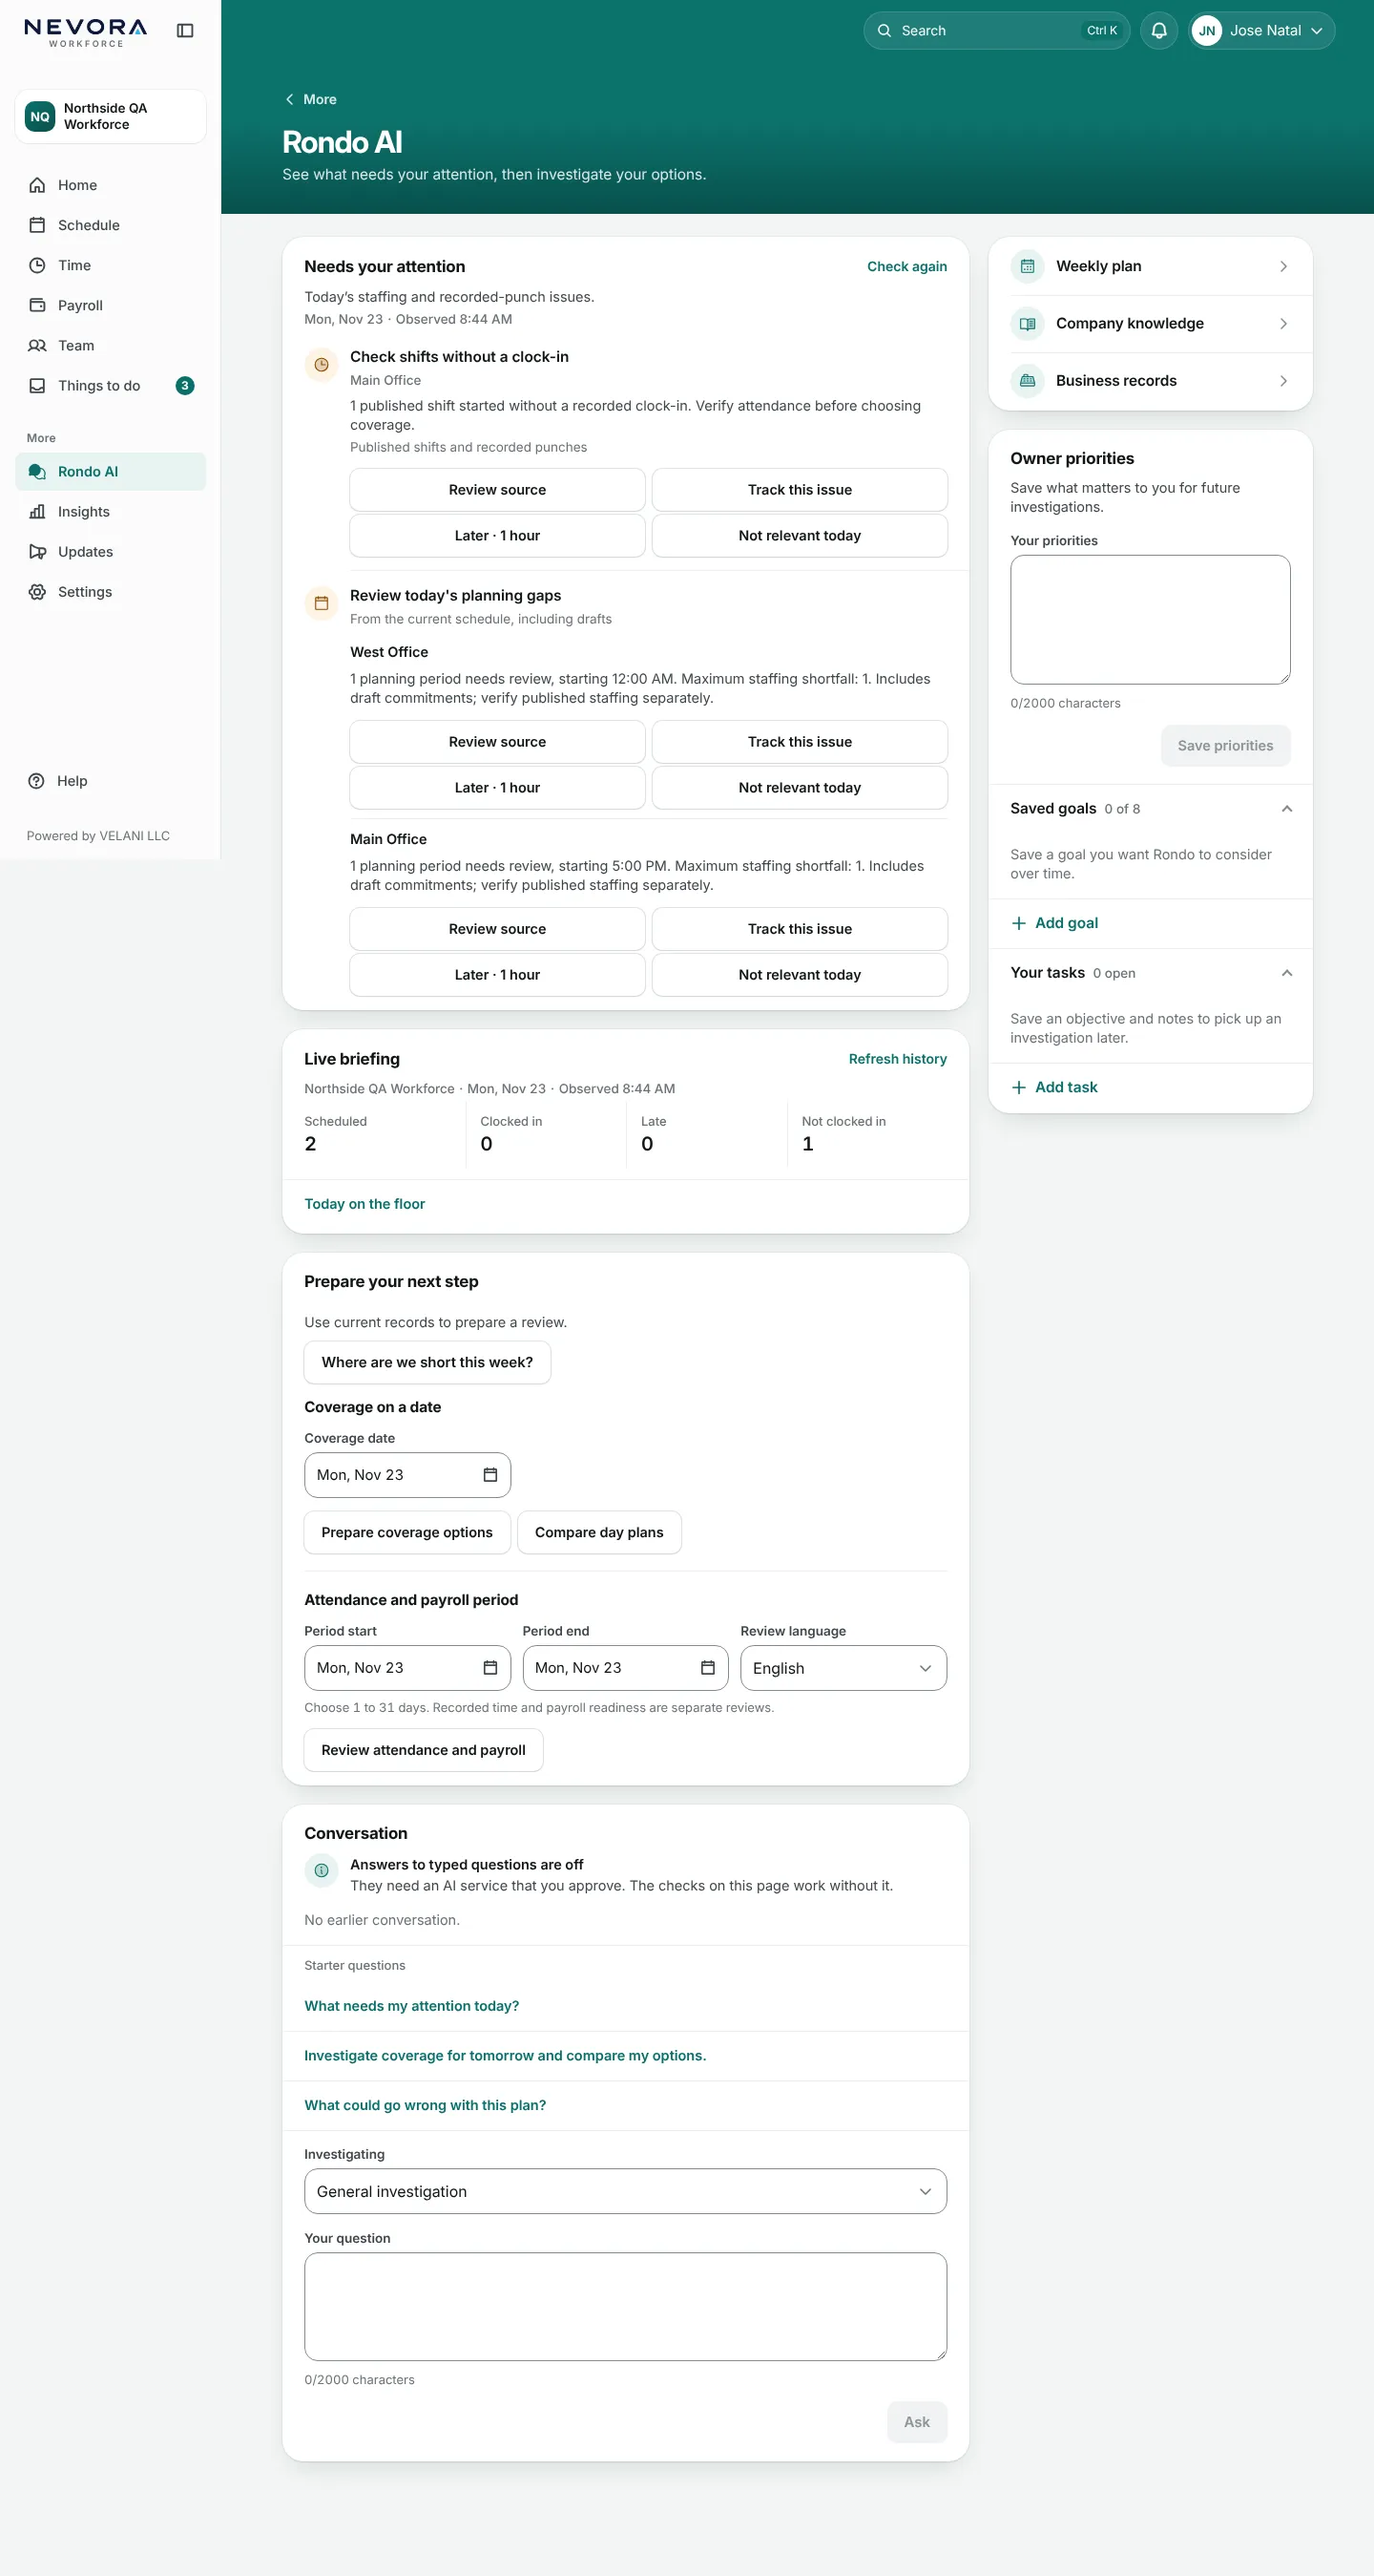
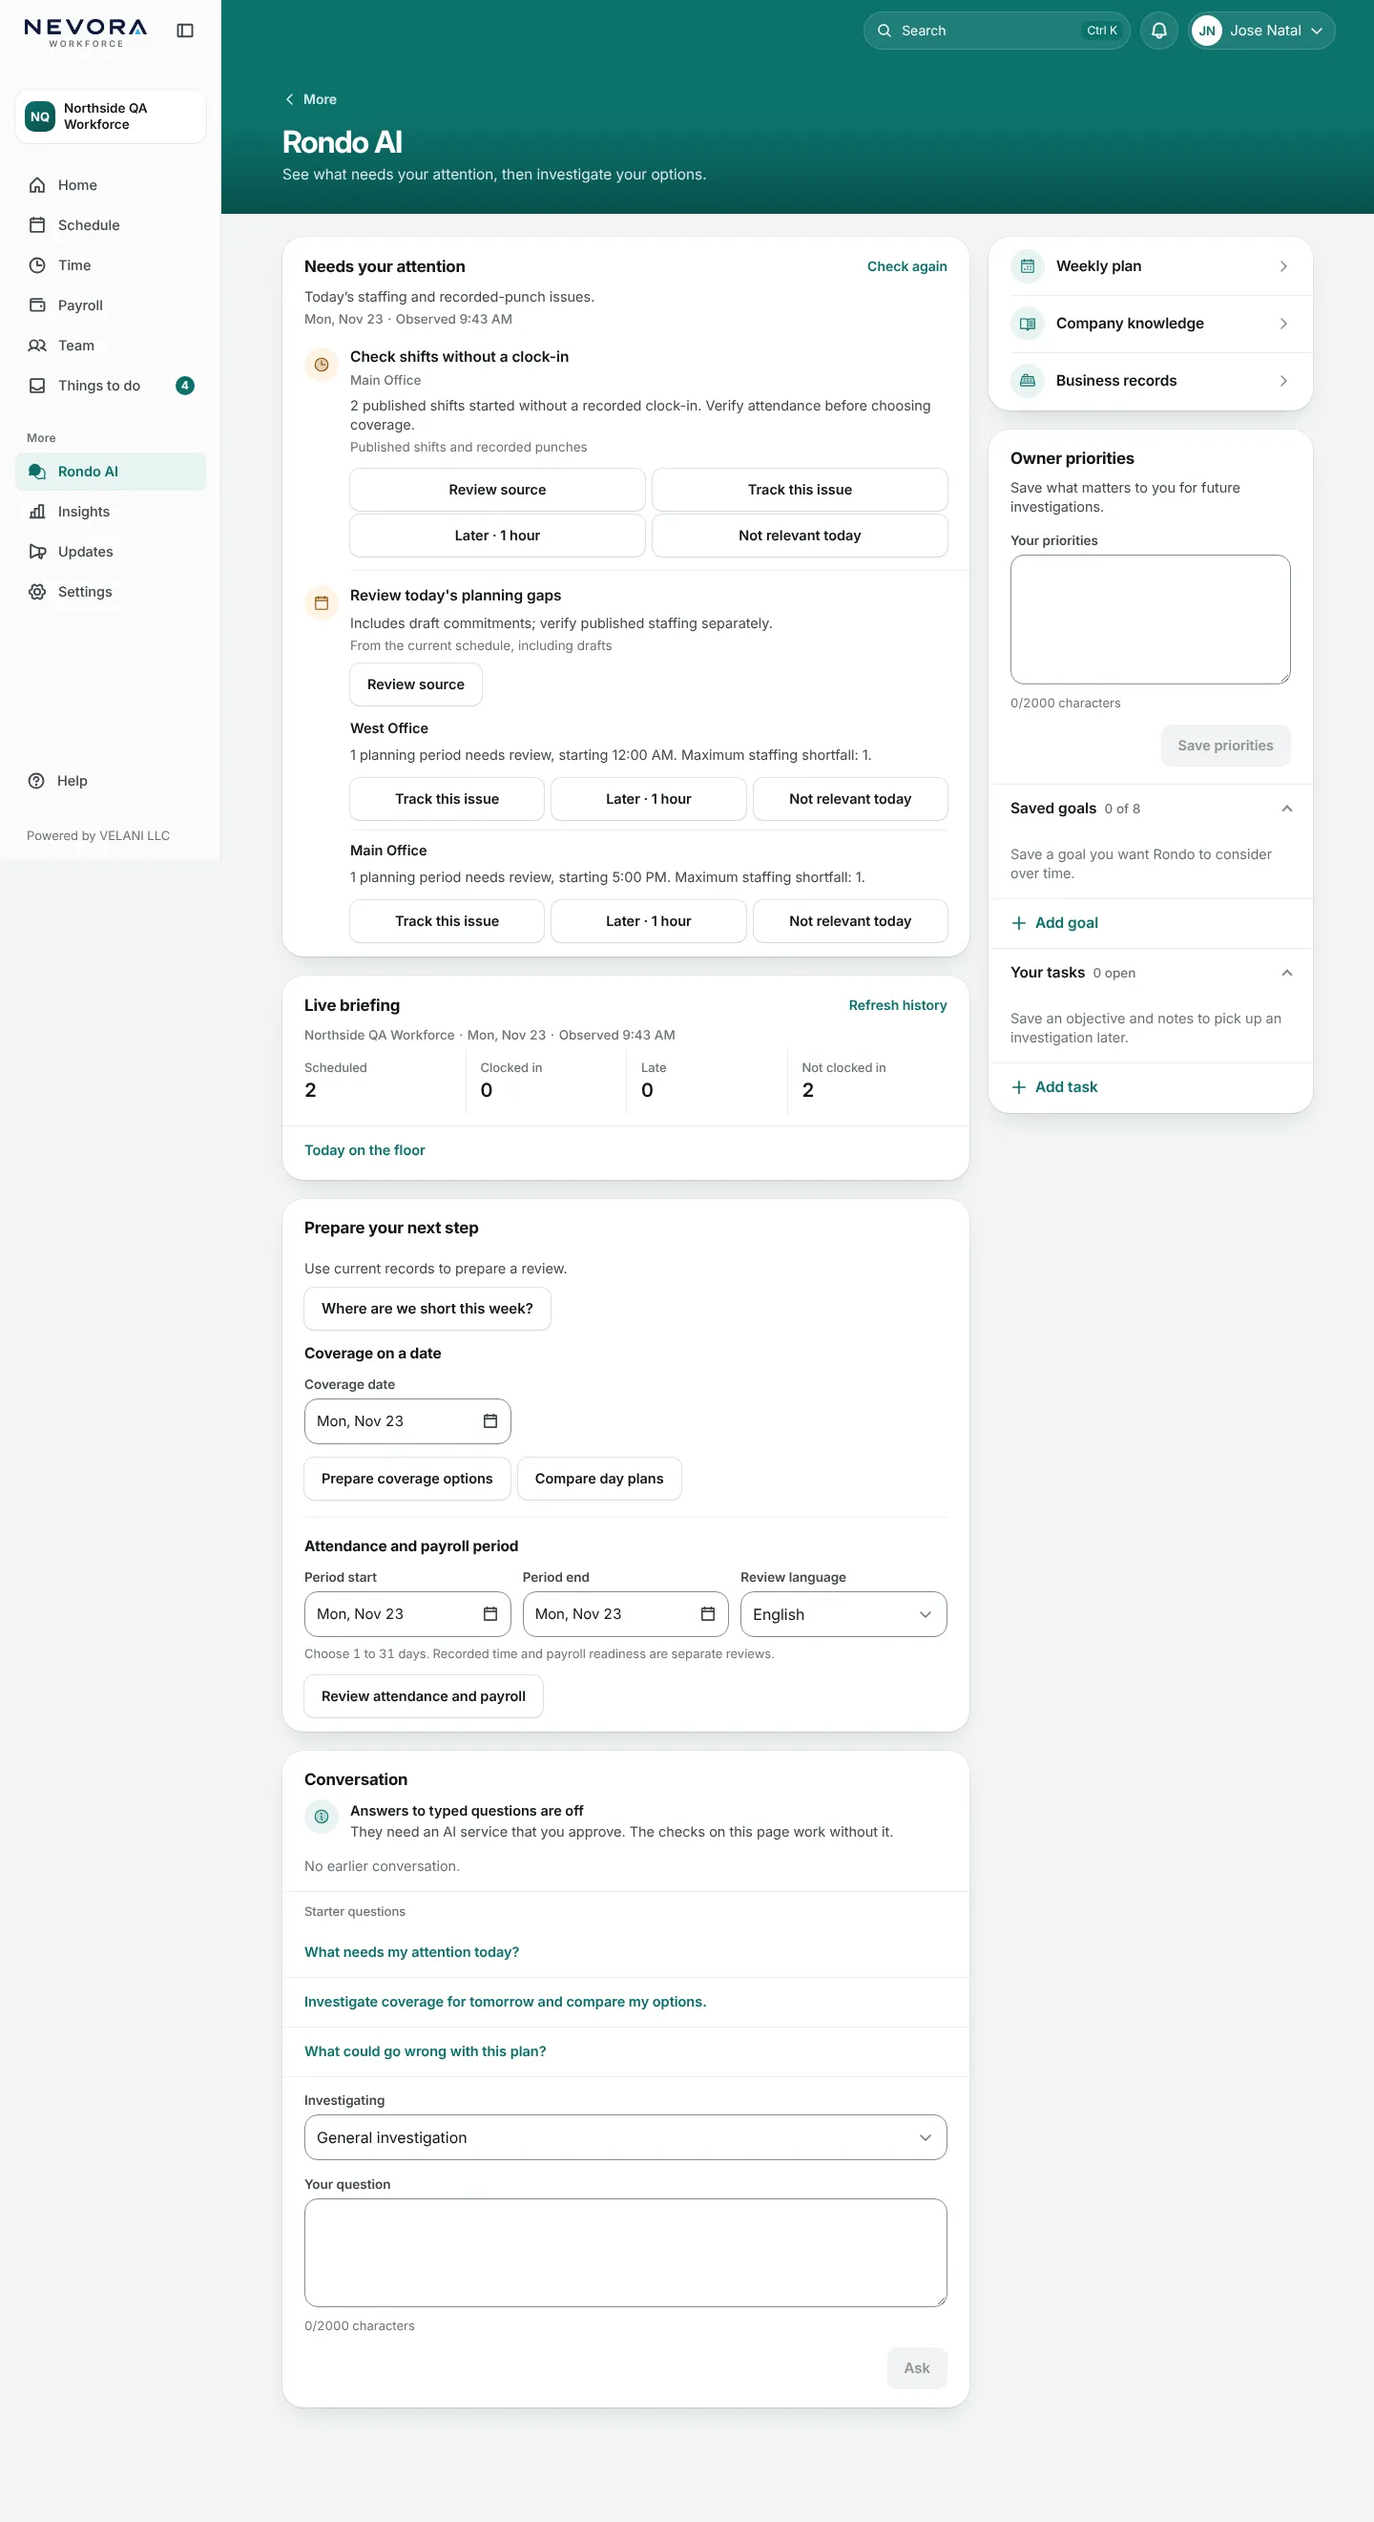
Rondo and Christmas bonus follow-ups: captures and report
Claude-Session: https://claude.ai/code/session_01N2UNZF9poagj1ChC5N3ELD

diff --git a/docs/handoffs/2026-11-23-phase2-cloud/reports/rondo.md b/docs/handoffs/2026-11-23-phase2-cloud/reports/rondo.md
@@ -100,3 +100,18 @@ None of items 9–14.
 - No keyboard walk recorded beyond the kit's focus styles. No reduced-motion pass (none of these changes animate).
 - The Owner capture uses the standard seed and the Manager capture uses the rich seed, so the data differs between
   roles.
+
+## Follow-up from the lead (commit `31f06892`, after merging `origin/claude-codex-collab-nevora`)
+- **H6:** on wide screens the subtitle is the bonus year's exact dates again ("Oct 1, 2025–Sep 30, 2026 · All
+  locations"), and the band menu reads "Bonus year", so the dates appear once. On the phone there's no subtitle, so the
+  menu itself shows the exact dates. Its screen-reader name keeps the visible words. The "Informational only" text is
+  unchanged. Axe 0 and overflow 0 at every width, including 200% text.
+- **H1 Owner:** in a group of places, "Includes draft commitments; verify published staffing separately." and the
+  shared "Review source" link (both places open the same week's schedule) now appear once under the group title. Each
+  place keeps Track this issue, Later · 1 hour and Not relevant today: these are three across with room, or two plus one
+  full-width when narrow. These three can't be merged into one set without new behaviour: each saves that place's own
+  issue record with its own revision, and the controller sends one save at a time (a second save cancels the first).
+  Axe 0 and overflow 0.
+- Re-captured H1 and H6 (Owner) on `31f06892` at 390, 768, 1440 and 390 with 200% text, plus phone shots at viewport
+  height (`H1-o-390-fold.webp`, `H6-o-390-fold.webp`). H6 is the same screen for the company-wide Manager. The H1
+  Manager screen didn't change.
